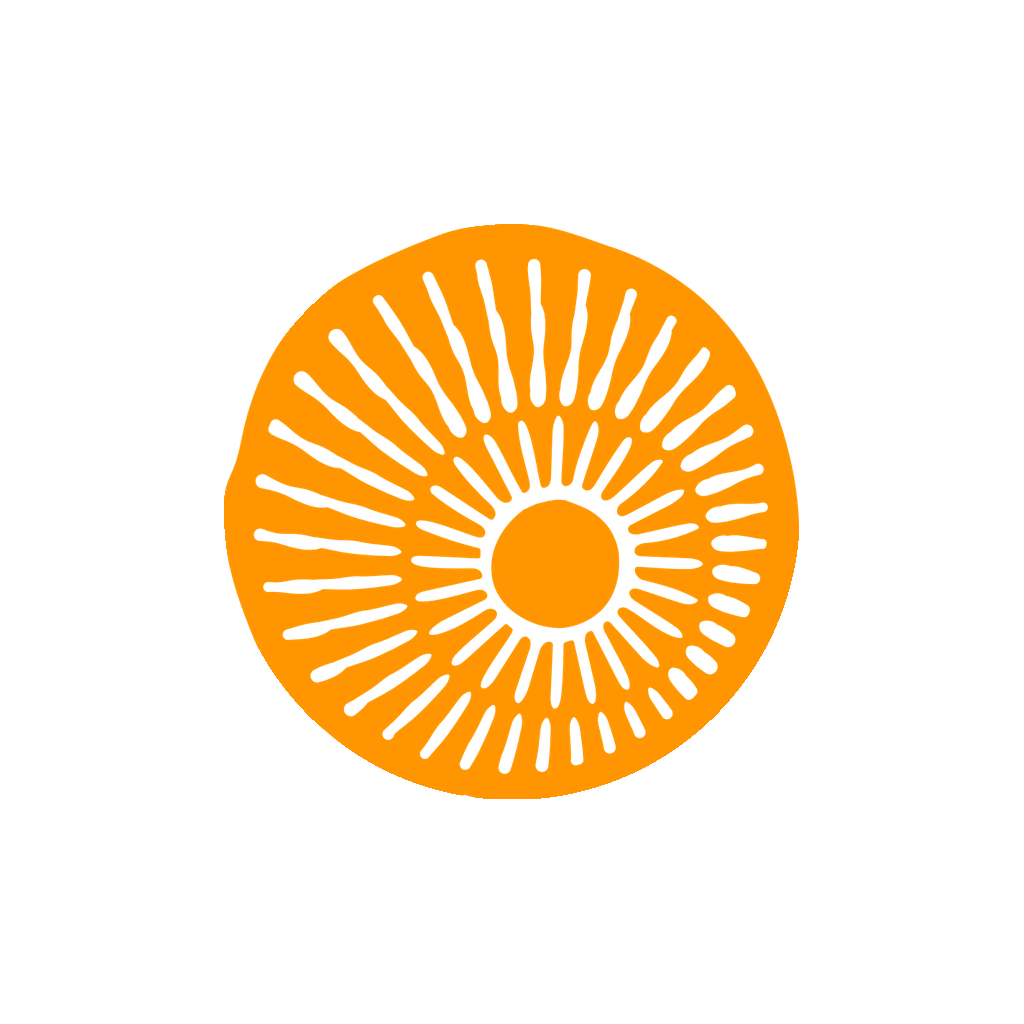
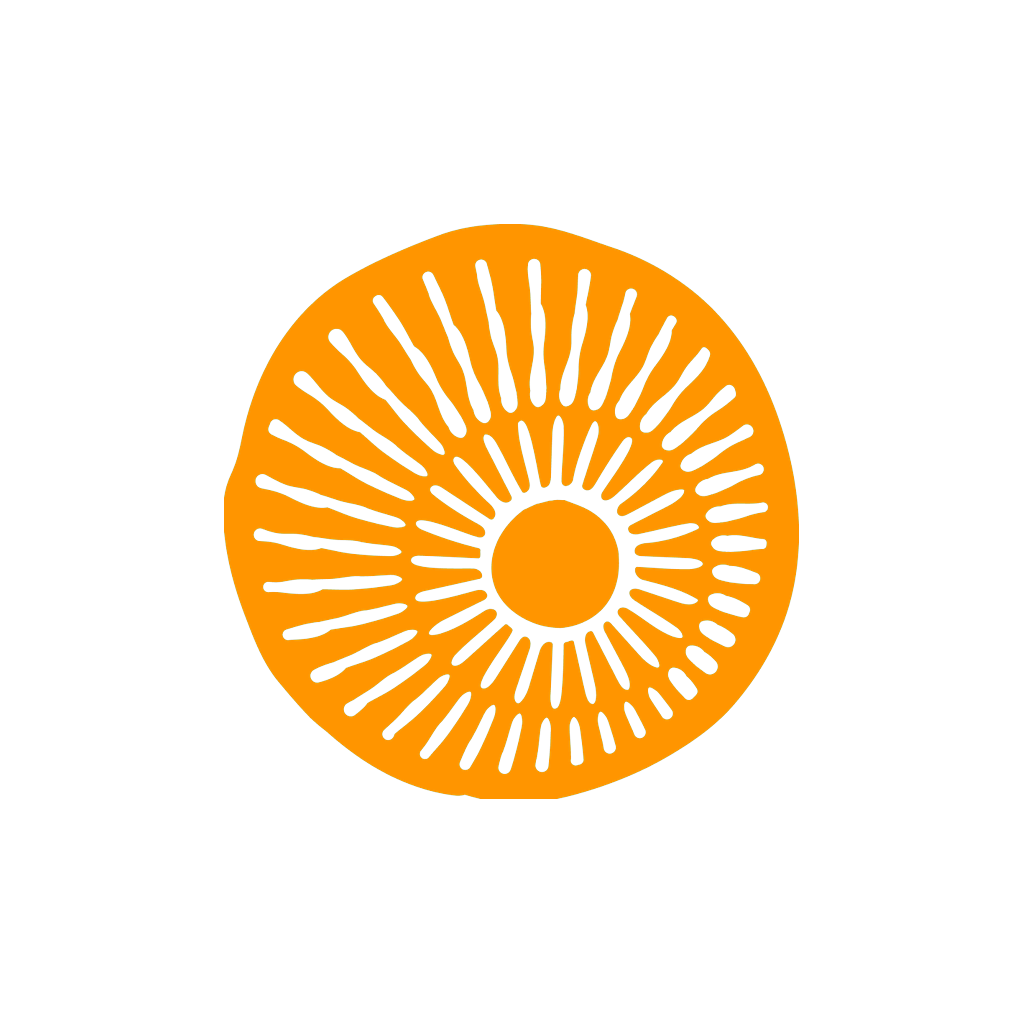
fix(theme): #19 — arte regenerada sem halo de pré-multiplicação; splash transparente com fundo bege DABA8D no app.json

diff --git a/src/frontend/lib/appConfig.test.ts b/src/frontend/lib/appConfig.test.ts
@@ -76,16 +76,17 @@ describe('appConfig de ícone e splash (PR A #19, passo 4)', () => {
     const android = campoDe(expo, 'android');
     const adaptiveIcon = campoDe(android, 'adaptiveIcon');
 
-    expect(campoDe(splash, 'backgroundColor')).toBe(COMAPEO_DARK_BLUE);
-    expect(campoDe(adaptiveIcon, 'backgroundColor')).toBe(COMAPEO_DARK_BLUE);
+    // Fundo bege DABA8D (paleta Ekanâdyby) no splash e no ícone adaptativo.
+    expect(campoDe(splash, 'backgroundColor')).toBe('#DABA8D');
+    expect(campoDe(adaptiveIcon, 'backgroundColor')).toBe('#DABA8D');
     expect(campoDe(adaptiveIcon, 'foregroundImage')).toBe(
       './assets/adaptive-icon.png',
     );
   });
 
   test('icon.png e adaptive-icon são 1024×1024; splash 1200×1200 RGB', () => {
-    // O ícone novo é RGB opaco (fundo bege pintado, sem canal de alfa) e o
-    // splash também; o adaptativo mantém RGBA com transparência nas bordas.
+    // O ícone é RGB opaco (fundo bege pintado, sem canal de alfa); o splash
+    // e o adaptativo mantêm RGBA com transparência nas bordas.
     expect(tamanhoCabecalho('./assets/icon.png')).toEqual({
       size: [1024, 1024],
       bitDepth: 8,
@@ -101,7 +102,7 @@ describe('appConfig de ícone e splash (PR A #19, passo 4)', () => {
     expect(tamanhoCabecalho('./assets/splash.png')).toEqual({
       size: [1200, 1200],
       bitDepth: 8,
-      colorType: 2,
+      colorType: 6,
     });
   });
 
@@ -206,12 +207,31 @@ describe('appConfig de ícone e splash (PR A #19, passo 4)', () => {
       }
     });
 
-    // (d) O fundo do splash é o bege DABA8D nos 4 cantos.
-    test('(d) splash.png: bege DABA8D nos 4 cantos', () => {
+    // (d) O fundo do splash é transparente; o bege DABA8D vem do
+    // backgroundColor do plugin expo-splash-screen (app.json).
+    test('(d) splash.png: transparente nos 4 cantos e sem halo escuro no sol', () => {
       const png = PNG.sync.read(fs.readFileSync('assets/splash.png'));
       for (const [x, y] of CANTOS_DE(png.width, png.height)) {
-        expect(rgbEm(png, x, y)).toEqual([218, 186, 141]);
+        expect(alfaEm(png, x, y)).toBe(0);
       }
+      // Nenhum pixel escuro FORA do disco solar (halo de pré-multiplicação).
+      // Os raios escuros DENTRO do disco fazem parte da arte Ekanâdyby.
+      let halo = 0;
+      const centro = (png.width - 1) / 2;
+      const raioDisco = png.width * 0.36; // sol ocupa ~72% da largura
+      for (let y = 0; y < png.height; y++) {
+        for (let x = 0; x < png.width; x++) {
+          const idx = (png.width * y + x) << 2;
+          const r = png.data[idx] ?? 0;
+          const g = png.data[idx + 1] ?? 0;
+          const b = png.data[idx + 2] ?? 0;
+          const a = png.data[idx + 3] ?? 0;
+          const foraDoDisco =
+            Math.hypot(x - centro, y - centro) > raioDisco;
+          if (a > 0 && r < 80 && g < 80 && b < 80 && foraDoDisco) halo++;
+        }
+      }
+      expect(halo).toBe(0);
     });
   });
 });
